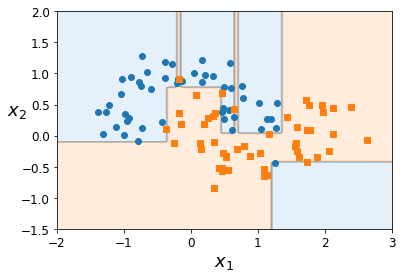
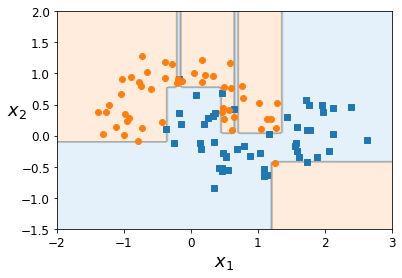
Fix swapped colours in notebook 3

diff --git a/md_output/03_decision_trees.md b/md_output/03_decision_trees.md
@@ -50,14 +50,11 @@ def plot_decision_boundary(clf, X, y, axes=[-2.0, 3.0, -1.5, 2.0]):
     x1, x2 = np.meshgrid(x1s, x2s)
     X_new = np.c_[x1.ravel(), x2.ravel()]
     y_pred = clf.predict(X_new).reshape(x1.shape)
-    custom_cmap = ListedColormap(['#A7D1F2','#767676','#FFC38D'])
+    custom_cmap = ListedColormap(['#FFC38D','#767676','#A7D1F2'])
     plt.contourf(x1, x2, y_pred, alpha=0.3, cmap=custom_cmap)
-    # custom_cmap2 = ListedColormap(['#7d7d58','#4c4c7f','#507d50'])
-    plt.plot(X[:, 0][y==0], X[:, 1][y==0], "o")
     plt.plot(X[:, 0][y==1], X[:, 1][y==1], "s")
-    plt.plot(X[:, 0][y==2], X[:, 1][y==2], "^")
+    plt.plot(X[:, 0][y==0], X[:, 1][y==0], "o")
     plt.axis(axes)
-    # plt.contour(x1, x2, y_pred, cmap=custom_cmap2, alpha=0.8)
     plt.xlabel(r"$x_1$", fontsize=18)
     plt.ylabel(r"$x_2$", fontsize=18, rotation=0)
 ```
